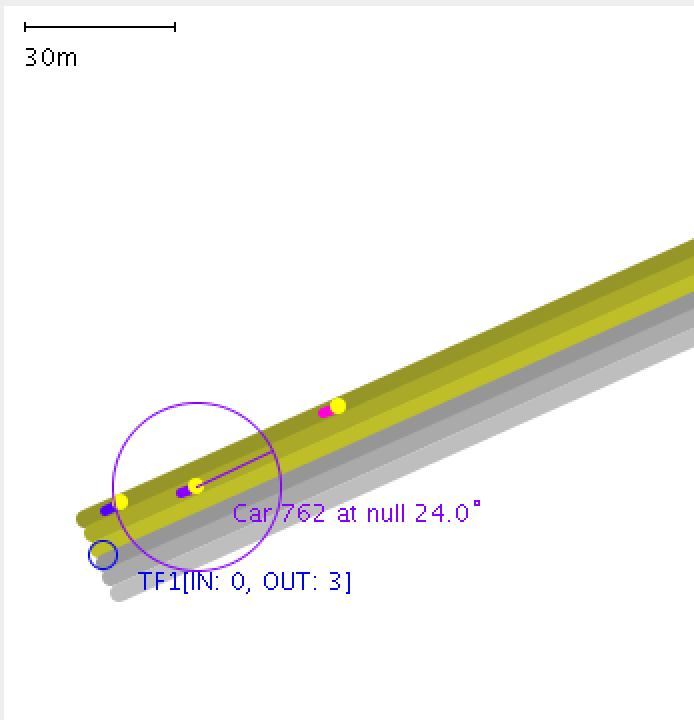
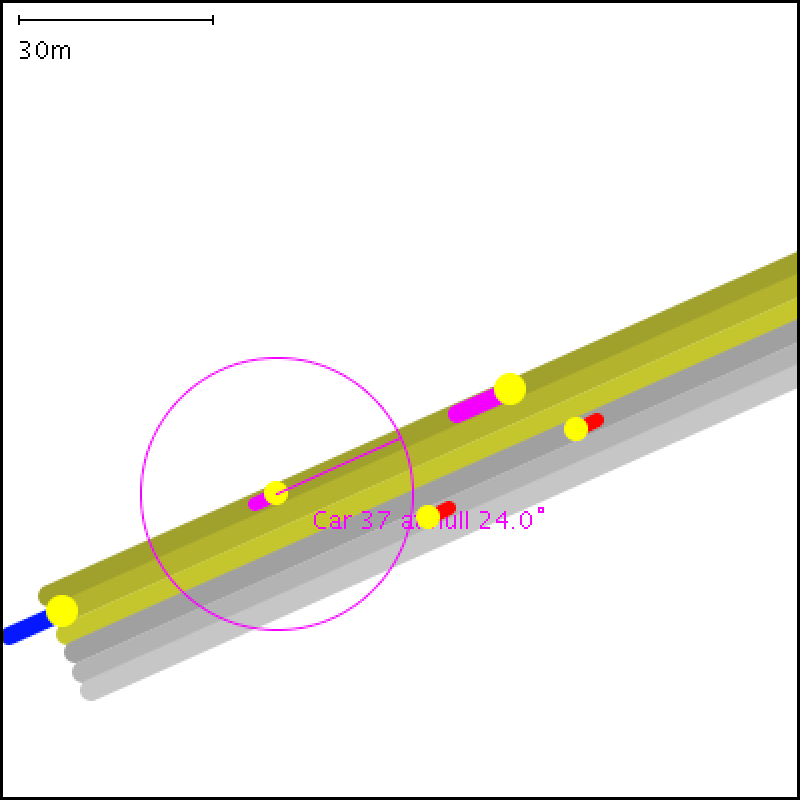
Updated lane changing images in report.

diff --git a/reports/finalReport/docs/report.tex b/reports/finalReport/docs/report.tex
@@ -88,7 +88,7 @@
   	\caption{Junction}
   	\label{fig:junction}
   	\centering
-	\includegraphics[width=0.80\textwidth]{figs/graphConstruction/Junction.png}
+	\includegraphics[width=0.6\textwidth]{figs/graphConstruction/Junction.png}
   	\vspace{1.5em}
 \end{figure}		
 	
@@ -155,14 +155,14 @@
         \item Crossings. Movement on 2+F crossroads (more than 2 features).
         \item Distance the car keeps to obstacles
             \begin{figure}
-                \caption{Car keeping distance to other car}
+                \caption{Car changing lane}
                 \label{fig:carKeepingDistance}
                 \centering
                 \includegraphics[width=0.3\textwidth]{figs/carMovement/car_keeping_distance_to_other.png}
                 \hspace{0.2em}
-                \includegraphics[width=0.3\textwidth]{figs/carMovement/car_lane_change_after.png}
-                \hspace{0.2em}
                 \includegraphics[width=0.3\textwidth]{figs/carMovement/car_lane_change_before.png}
+                \hspace{0.2em}
+                \includegraphics[width=0.3\textwidth]{figs/carMovement/car_lane_change_after.png}
             \end{figure}
         \item Lane changing - if there is another car in distance to keep, see to outer lane (if the same space is free) and change if possible, then try to do same for inner lane. If both buys, just brake.
     \end{itemize}
